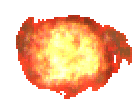
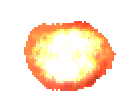
animation added

diff --git a/src/de/fhkiel/iue/oopming/GameScreen.java b/src/de/fhkiel/iue/oopming/GameScreen.java
@@ -1,85 +1,125 @@
 package de.fhkiel.iue.oopming;
 
 import processing.core.PApplet;
+import processing.core.PImage;
 
 import java.util.ArrayList;
 import java.util.List;
 
 public class GameScreen {
 
+
     Gegner gegner;
-    int lamsamer;
+    int langsamer;
+
+    Position expos = new Position();
+    boolean explotion = false;
+    int explosionImageFrame = 8;
+    PImage[] explosionImage = new PImage[explosionImageFrame];
     Player player;
     List gegners;
     List geschosse;
-    public GameScreen(PApplet pApplet){
-          player = new Player(pApplet);
-          gegner = new Gegner();
+    int u = 0;
+
+    public GameScreen(PApplet pApplet) {
+
+        player = new Player(pApplet);
+        gegner = new Gegner();
         gegners = new ArrayList<Gegner>();
         // Array für Geschosse
-       geschosse = new ArrayList<Geschoss>();
+        geschosse = new ArrayList<Geschoss>();
     }
 
 
-    public void gameScreen(PApplet pApplet){
+    public void gameScreen(PApplet pApplet) {
 
-    pApplet.background(0);
-    //
-        for (int i = 0; i < gegners.size(); i++) {
-        //get Instance von Gegner
-        gegner = (Gegner) gegners.get(i);
-        gegner.draw(pApplet);
-        gegner.move();
-        if (gegner.ausserhalbSpielFeld()) {
-            //Wenn Gegner außerhalber dem Spielfeld, löscht der Gegner
-            gegners.remove(gegner);
-            //ein neuer Gegner herstellen
-            gegners.add(new Gegner());
+        for (int i = 0; i < explosionImage.length; i++) {
+            explosionImage[i] = pApplet.loadImage("src/de/fhkiel/iue/oopming/image/explosion/explosion_" + i + ".png");
+
         }
-    }
-// lasst Geschoss nach bestimmter Zeit erzeugen
-    lamsamer++;
-        if (lamsamer % 4 == 0) {
-        Geschoss geschoss = new Geschoss((int) player.getpCenter().getX(), (int) player.getpCenter().getY());
-        geschosse.add(geschoss);
-    }
 
-        for (int i = 0; i < geschosse.size(); i++) {
-            Geschoss tempGeschoss = (Geschoss) geschosse.get(i);
-        tempGeschoss.draw(pApplet);
-        tempGeschoss.move();
-        if (tempGeschoss.ausserhalbSpielFeld()) {
-            geschosse.remove(tempGeschoss);
-        }
-    }
-
+        pApplet.background(0);
+        //
         for (int i = 0; i < gegners.size(); i++) {
-        Gegner gegner1 = (Gegner) gegners.get(i);
-        for (int j = 0; j < geschosse.size(); j++) {
-            Geschoss geschoss = (Geschoss) geschosse.get(j);
-            if(geschoss.istErschossen(gegner1,geschoss)) {
-                gegners.remove(gegner1);
-                geschosse.remove(geschoss);
+            //get Instance von Gegner
+            gegner = (Gegner) gegners.get(i);
+            gegner.draw(pApplet);
+            gegner.move();
+            if (gegner.ausserhalbSpielFeld()) {
+                //Wenn Gegner außerhalber dem Spielfeld, löscht der Gegner
+                gegners.remove(gegner);
+                //ein neuer Gegner herstellen
                 gegners.add(new Gegner());
             }
         }
-    }
+// lasst Geschoss nach bestimmter Zeit erzeugen
+        langsamer++;
+        if (langsamer % 4 == 0) {
+            Geschoss geschoss = new Geschoss((int) player.getpCenter().getX(), (int) player.getpCenter().getY());
+            geschosse.add(geschoss);
+        }
+
+        for (int i = 0; i < geschosse.size(); i++) {
+            Geschoss tempGeschoss = (Geschoss) geschosse.get(i);
+            tempGeschoss.draw(pApplet);
+            tempGeschoss.move();
+            if (tempGeschoss.ausserhalbSpielFeld()) {
+                geschosse.remove(tempGeschoss);
+            }
+        }
+
+        for (int i = 0; i < gegners.size(); i++) {
+            Gegner gegner1 = (Gegner) gegners.get(i);
+            for (int j = 0; j < geschosse.size(); j++) {
+                Geschoss geschoss = (Geschoss) geschosse.get(j);
+                if (geschoss.istErschossen(gegner1, geschoss)) {
+                    explotion = true;
+                    expos.setY(gegner1.getGcenter().getY());
+                    expos.setX(gegner1.getGcenter().getX());
+                    gegners.remove(gegner1);
+                    geschosse.remove(geschoss);
+                    gegners.add(new Gegner());
+
+
+                }
+            }
+        }
         player.draw(pApplet);
         player.steuen(pApplet);
-}
-public void setup(PApplet pApplet){
 
 
 
-    player.setpCenter(new Position(pApplet.width / 2, pApplet.height - 100));
-    player.setColor(new Color(100, 100, 200));
-    gegner.setGcenter(new Position(0,0));
-    pApplet.noCursor();
-    pApplet.noStroke();
-    pApplet.imageMode(pApplet.CENTER);
-    //Erstelle 8 Instanzen des Gegners
-    for (int i = 0; i < 8; i++) {
-        gegners.add(new Gegner());
+        if (explotion) {
+
+            pApplet.image(explosionImage[u],expos.getX(),expos.getY());
+            u++;
+            if(u==7){
+                u=0;
+                explotion = false;
+            }
+        }
+
+
+
     }
+
+    public void setup(PApplet pApplet) {
+
+
+        player.setpCenter(new Position(pApplet.width / 2, pApplet.height - 100));
+        player.setColor(new Color(100, 100, 200));
+        gegner.setGcenter(new Position(0, 0));
+        pApplet.noCursor();
+        pApplet.noStroke();
+        pApplet.imageMode(pApplet.CENTER);
+        //Erstelle 8 Instanzen des Gegners
+        for (int i = 0; i < 8; i++) {
+            gegners.add(new Gegner());
+        }
+
     }
+
+
 }
+
+

diff --git a/src/de/fhkiel/iue/oopming/Main.java b/src/de/fhkiel/iue/oopming/Main.java
@@ -47,6 +47,7 @@ public class Main extends PApplet {
         if (isInPause) {
             pauseScreen.pauseScreen(this);
         }
+
     }
     public void keyPressed() {
         if (key == 's') {
